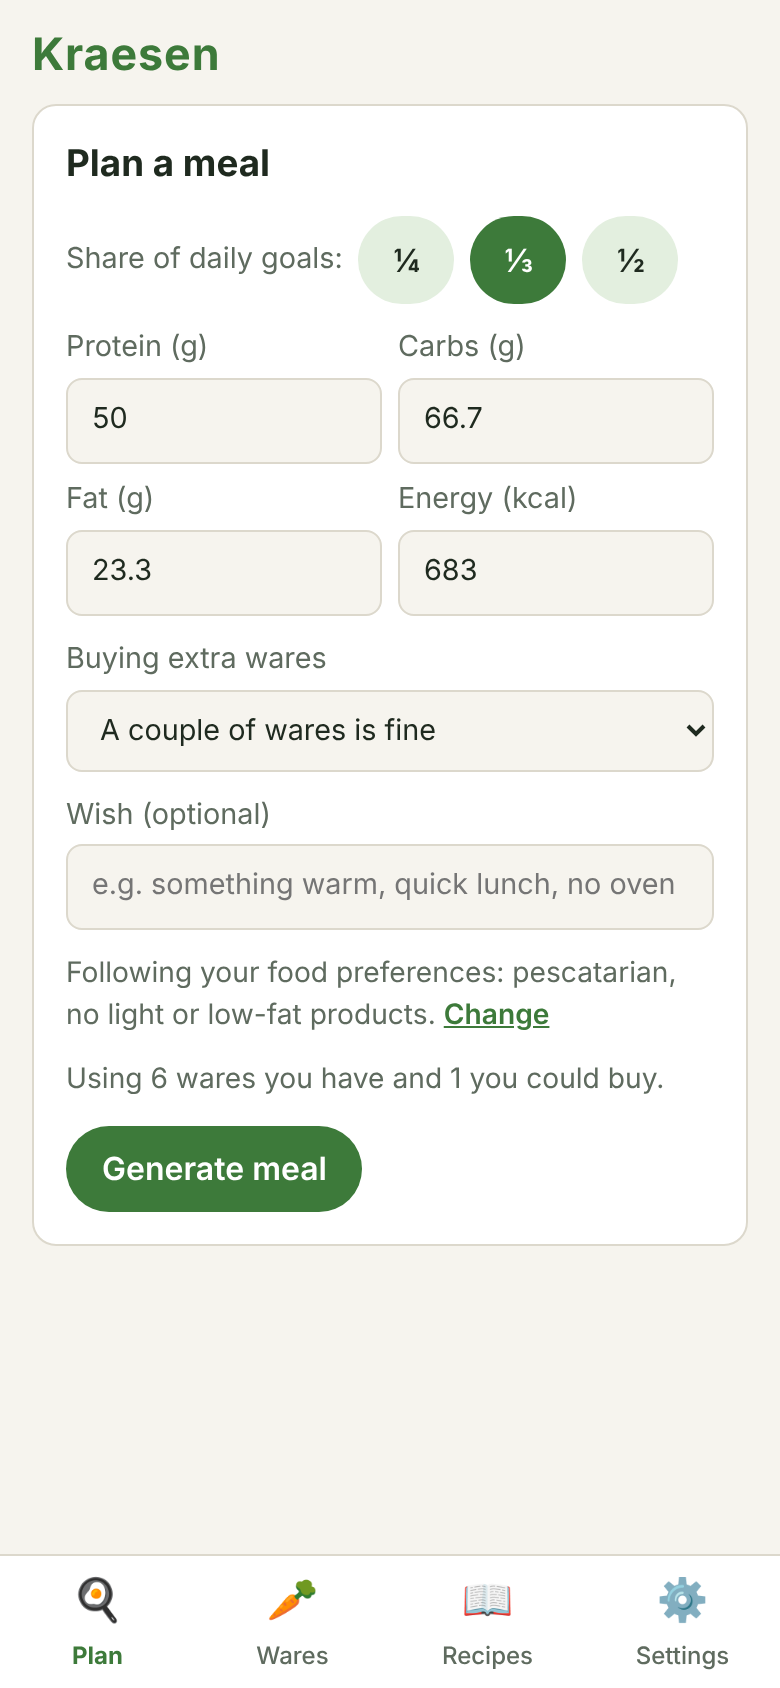
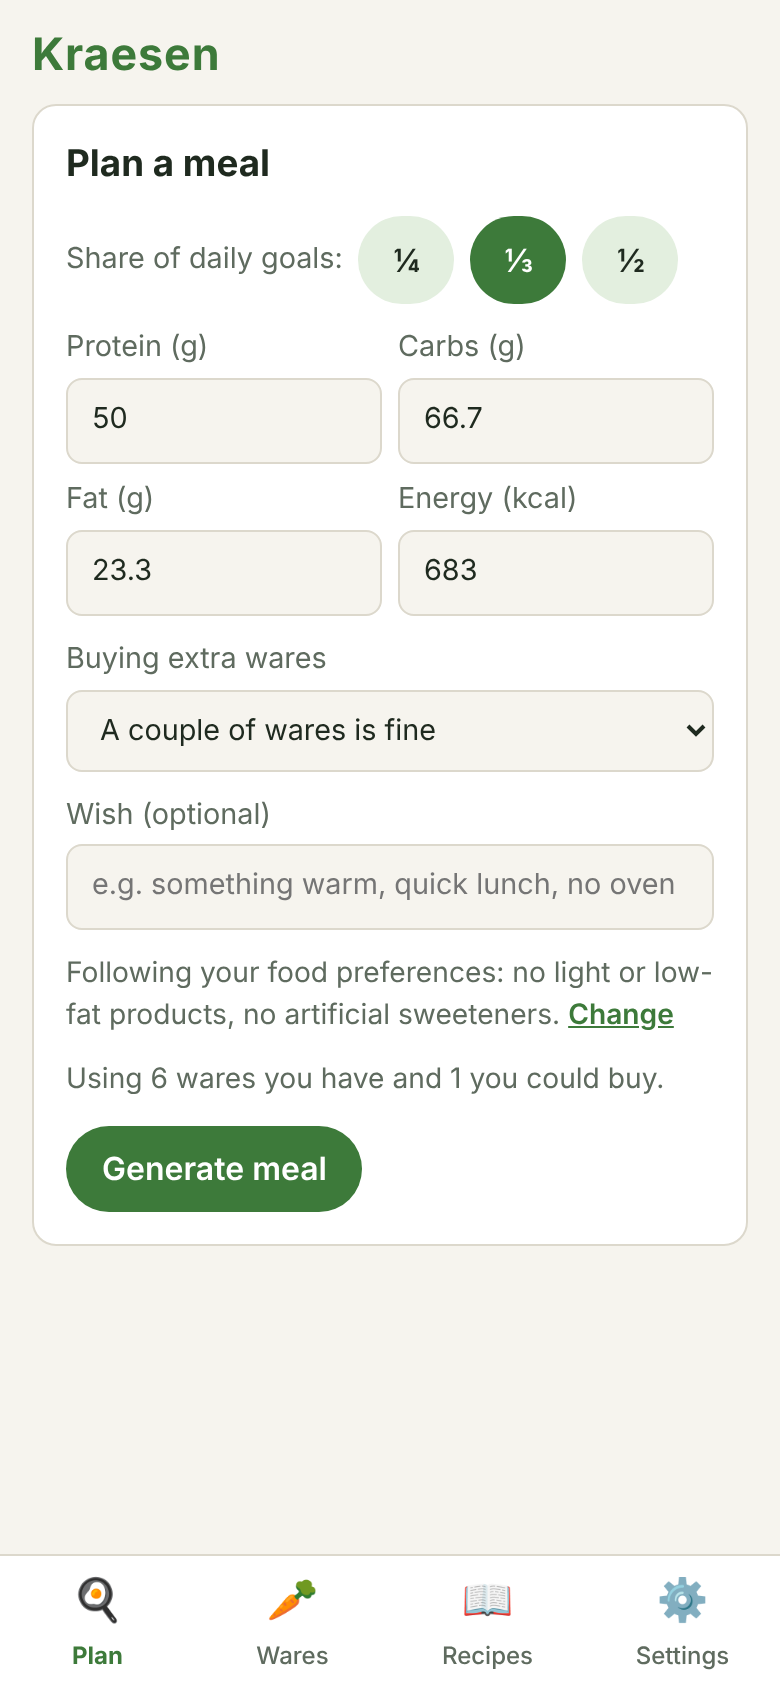
fix: screenshots follow the preferences they show; trim preferences on load
The recipe screenshot used chicken while the saved preferences said
"pescatarian". The e2e run now saves preferences the recipe follows.
Preferences are trimmed where the profile enters the store, so Plan no
longer trims them again.

Claude-Session: https://claude.ai/code/session_01NExJTuMKn94z8RMGD2mQMk

Changed region(s): [[0.0923, 0.5545, 0.8923, 0.6161]]

diff --git a/src/components/MealPage.tsx b/src/components/MealPage.tsx
@@ -16,7 +16,7 @@ const scale = (m: Macros, f: number): Macros => Object.fromEntries(MACRO_KEYS.ma
 export function MealPage({ goToSettings, goToWares }: { goToSettings: () => void; goToWares: () => void }) {
   const { state, update } = useStore()
   const daily = state.profile?.dailyGoals
-  const preferences = state.profile?.foodPreferences.trim() ?? ''
+  const preferences = state.profile?.foodPreferences ?? ''
   const [share, setShare] = useState(1 / 3)
   const [target, setTarget] = useState<Macros>(() => scale(daily ?? { protein: 0, carbs: 0, fat: 0, kcal: 0 }, 1 / 3))
   const [willingness, setWillingness] = useState<BuyWillingness>('some')

diff --git a/src/persist.ts b/src/persist.ts
@@ -80,7 +80,7 @@ function readRecipe(v: unknown): Recipe | null {
 
 function readProfile(v: unknown): Profile | null {
   if (!isObj(v) || !isObj(v.dailyGoals)) return null
-  return { name: str(v.name) ?? '', dailyGoals: readMacros(v.dailyGoals), foodPreferences: str(v.foodPreferences) ?? '' }
+  return { name: str(v.name) ?? '', dailyGoals: readMacros(v.dailyGoals), foodPreferences: str(v.foodPreferences)?.trim() ?? '' }
 }
 
 export function normalize(s: unknown): AppState {

diff --git a/src/persist.test.ts b/src/persist.test.ts
@@ -85,4 +85,8 @@ describe('normalize', () => {
   it('reads a profile saved before food preferences existed', () => {
     expect(normalize({ profile: { dailyGoals: { protein: 1 } } }).profile?.foodPreferences).toBe('')
   })
+
+  it('trims food preferences on load', () => {
+    expect(normalize({ profile: { dailyGoals: {}, foodPreferences: '  no sweeteners  ' } }).profile?.foodPreferences).toBe('no sweeteners')
+  })
 })
